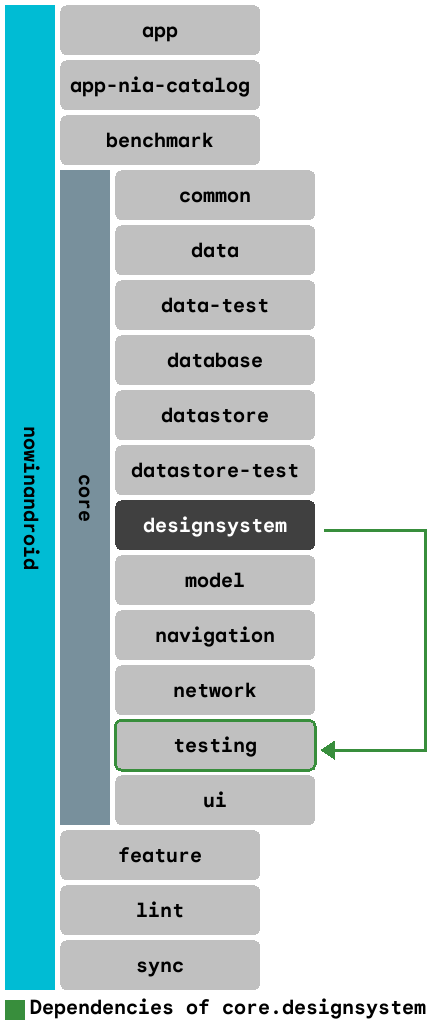
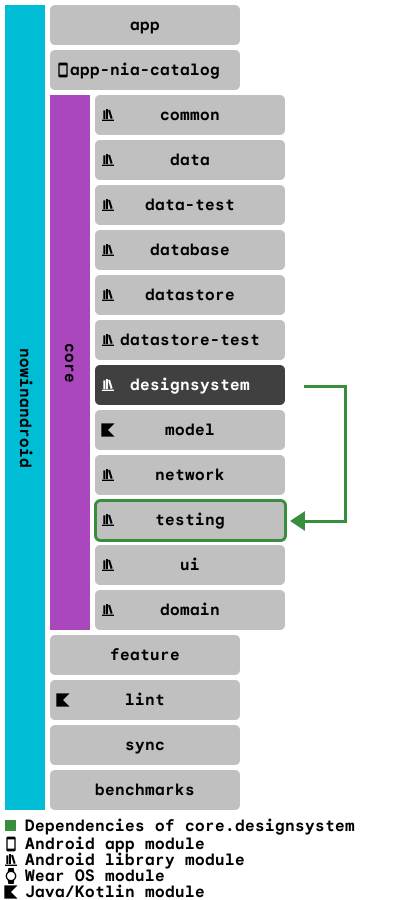
Update dependency graphs

diff --git a/app/mobile/README.md b/app/mobile/README.md
@@ -1,3 +1,3 @@
-# :app module
+# :app:mobile module
 
-![Dependency graph](../../docs/images/graphs/dep_graph_app.png)
+![Dependency graph](../../docs/images/graphs/dep_graph_app_mobile.png)

diff --git a/feature/wear/news/README.md b/feature/wear/news/README.md
@@ -1,0 +1,3 @@
+# :feature:wear:news module
+
+![Dependency graph](../../../docs/images/graphs/dep_graph_feature_wear_news.png)

diff --git a/feature/settings/README.md b/feature/settings/README.md
@@ -1,0 +1,3 @@
+# :feature:settings module
+
+![Dependency graph](../../docs/images/graphs/dep_graph_feature_settings.png)

diff --git a/sync/sync-test/README.md b/sync/sync-test/README.md
@@ -1,0 +1,3 @@
+# :sync:sync-test module
+
+![Dependency graph](../../docs/images/graphs/dep_graph_sync_sync_test.png)

diff --git a/core/domain/README.md b/core/domain/README.md
@@ -1,0 +1,3 @@
+# :core:domain module
+
+![Dependency graph](../../docs/images/graphs/dep_graph_core_domain.png)

diff --git a/sync/work/README.md b/sync/work/README.md
@@ -1,0 +1,3 @@
+# :sync:work module
+
+![Dependency graph](../../docs/images/graphs/dep_graph_sync_work.png)

diff --git a/app/wear/README.md b/app/wear/README.md
@@ -1,0 +1,3 @@
+# :app:wear module
+
+![Dependency graph](../../docs/images/graphs/dep_graph_app_wear.png)
